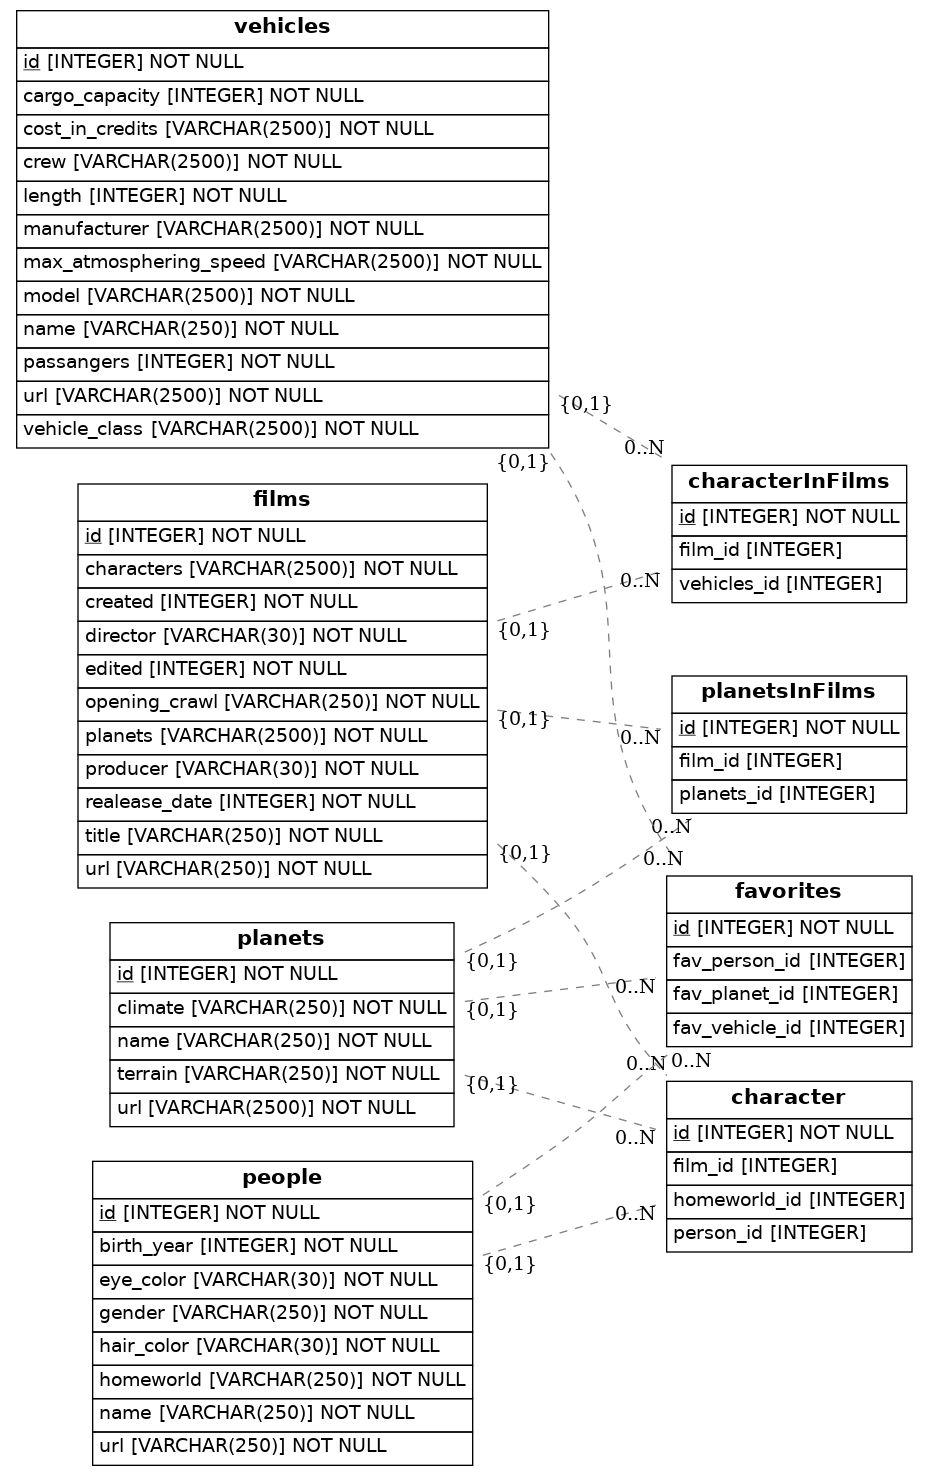
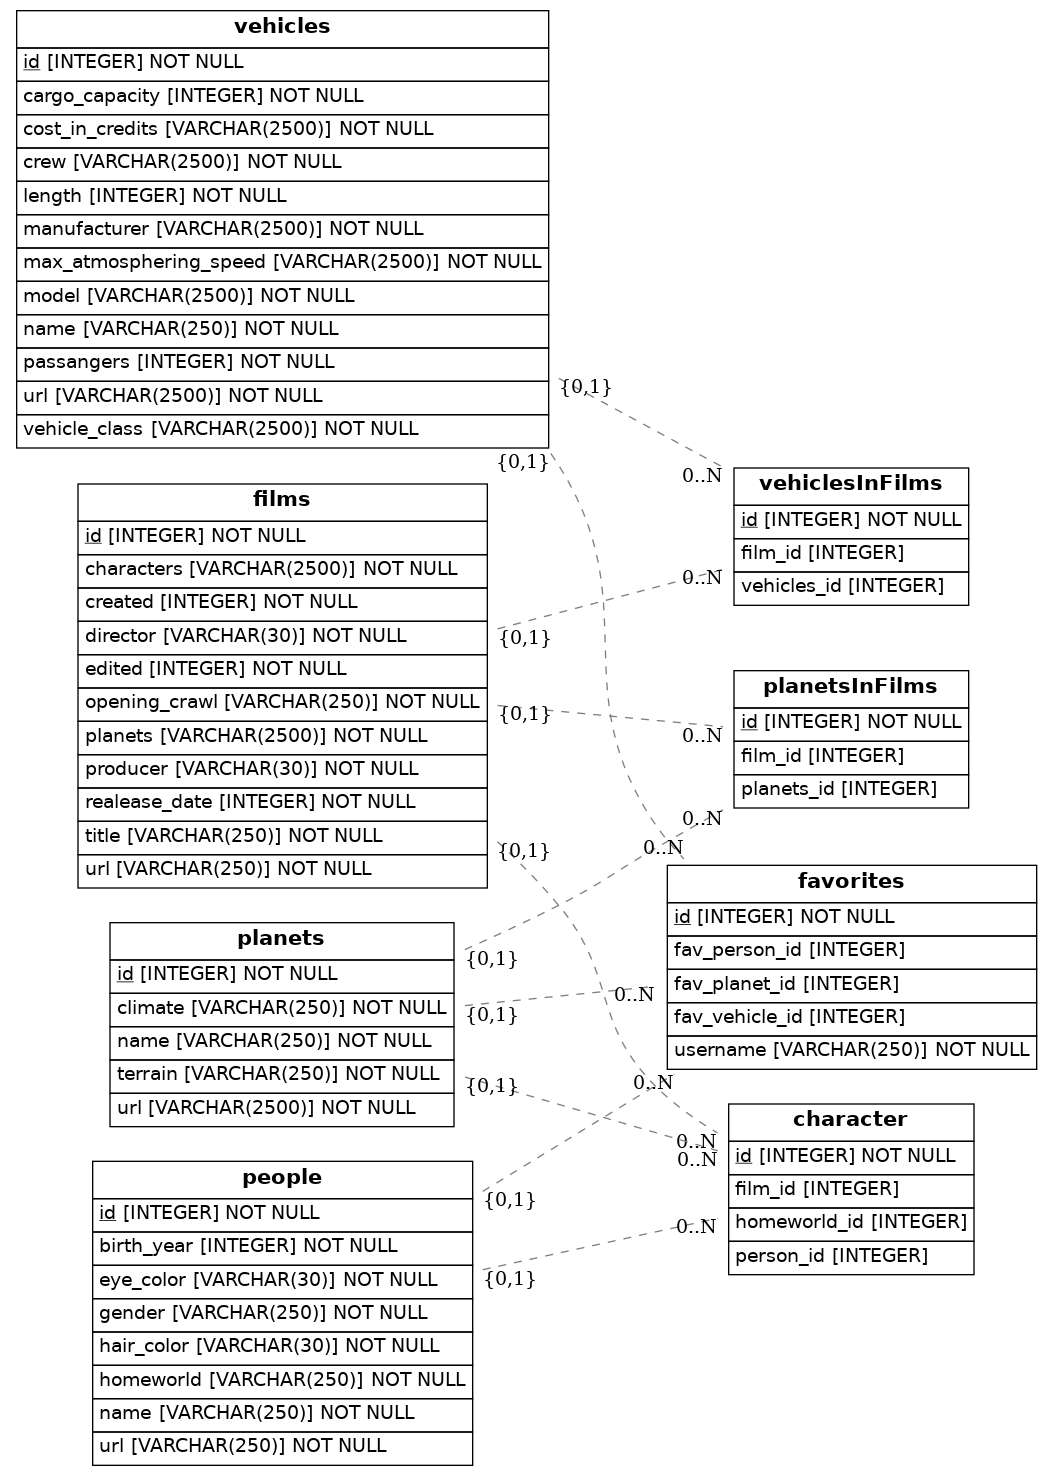
title corrected, user added to favorites. Finished

Changed region(s): [[0.0, 0.0, 0.5938, 0.9973], [0.5625, 0.4363, 1.0, 0.8726], [0.625, 0.2805, 0.9688, 0.4051]]

diff --git a/src/models.py b/src/models.py
@@ -101,8 +101,8 @@ class Character(Base):
     person = relationship(People)
 
 
-class CharacterInFilms(Base):
-    __tablename__ = 'characterInFilms'
+class VehiclesInFilms(Base):
+    __tablename__ = 'vehiclesInFilms'
     id = Column(Integer, primary_key=True)
     vehicles_id = Column(Integer, ForeignKey('vehicles.id'))
     vehicles = relationship(Vehicles)
@@ -115,6 +115,7 @@ class Favorites(Base):
     # Here we define columns for the table person
     # Notice that each column is also a normal Python instance attribute.
     id = Column(Integer, primary_key=True)
+    username = Column(String(250), nullable=False)
     fav_planet_id = Column(Integer, ForeignKey('planets.id'))
     planet = relationship(Planets)
     fav_vehicle_id = Column(Integer, ForeignKey('vehicles.id'))
